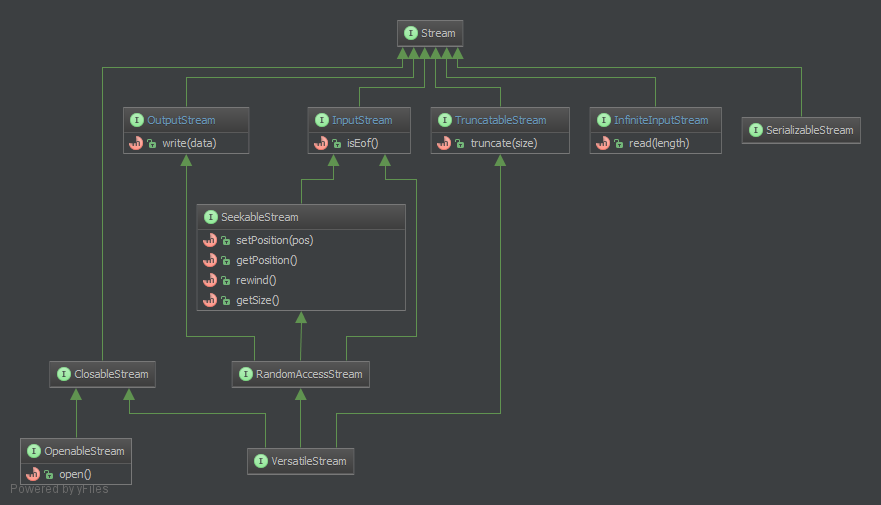
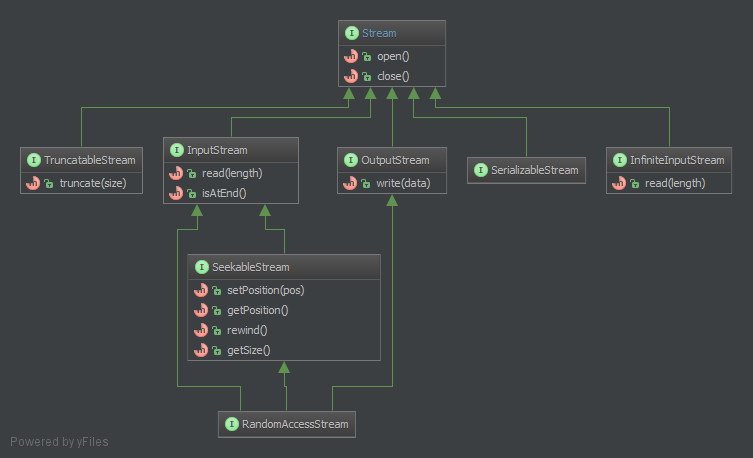
Structural changes

diff --git a/src/Kir/Streams/Stream.php b/src/Kir/Streams/Stream.php
@@ -1,5 +1,6 @@
 <?php
 namespace Kir\Streams;
+use Kir\Streams\Exceptions\IOException;
 
 /**
  * Interface Stream
@@ -9,4 +10,15 @@ namespace Kir\Streams;
  * @abstract
  */
 interface Stream {
+	/**
+	 * @throws IOException
+	 * @return $this
+	 */
+	public function connect();
+
+	/**
+	 * @throws IOException
+	 * @return $this
+	 */
+	public function disconnect();
 }

diff --git a/README.md b/README.md
@@ -29,7 +29,7 @@ Every stream implementation should only be forced to implement essential functio
 
 Every IoC-aware component should only depend on interfaces, which provide the required functionality.
 
-A logger for example only need to depend on a OutputStream. The logger do not need to open or close the stream, nor does it need to know about the stream-size or the current cursor-position. A logger should not be aware of log-file-rotation or disk-space-monitoring. This should be a concern of an outer component. So the logger could write to any writable stream without having a clue, what kind of stream this actually is.
+A logger for example only need to depend on a OutputStream. The logger do not need to know about the stream-size or the current cursor-position. A logger should not be aware of log-file-rotation or disk-space-monitoring. This should be a concern of an outer component. So the logger could write to any writable stream without having a clue, what kind of stream this actually is.
 
 
 Charsets and data-types
@@ -48,7 +48,7 @@ Overview
 
 ### Stream
 
-`Stream` is the base-class for a number of other classes. Its main purpose is to give a base type for type-hinting:
+`Stream` is the base-class for a number of other classes. Its main purpose is to provide functionality to connect or disconnect to a stream and give a base type for type-hinting:
 
 ```PHP
 function handleStream(Stream $stream) {
@@ -62,17 +62,10 @@ function handleStream(Stream $stream) {
 }
 ```
 
-### ClosableStream
-
-![Inheritance](assets/diagram-closable.png)
-
-A `ClosableStream` is a stream which can be disconnecten from a resource. An IoC-aware component may not enforce this interface in case of closing a stream could lead to unexpected behaviour in the outer program.
-
-*If a component does not really need to close a stream, then dont use this interface or any descendant of it.*
-
 Method | Return-type | Possible exception(s)
 ------ | ----------- | ---------------------
-`close()` | `static` | IOException
+`connect()` | `static` | ResourceLockedException, IOException
+`disconnect()` | `static` | IOException
 
 
 ### InfiniteInputStream
@@ -125,15 +118,6 @@ Examples:
 * Networkstreams
 
 
-### OpenableStream
-
-A `Stream` which implements this interface ships the method `open()` which connects to a resource.
-
-Method | Return-type | Possible exception(s)
------- | ----------- | ---------------------
-`open()` | `static` | ResourceLockedException, IOException
-
-
 ### TruncatableStream
 
 TODO
@@ -155,9 +139,10 @@ Method | Return-type | Possible exception(s)
 
 ### RandomAccessStream
 
-The `VersatileStream` applies to fully accessible resources like local files. It extends `InputStream`, `OutputStream` and `SeekableStream`.
+The `VersatileStream` applies to fully accessible resources like local files. It extends `InputStream`, `OutputStream` and `SeekableStream`. This interface should likly be used for read-, writable- and seekable resources.
 
+Examples:
 
-### VersatileStream
-
-The `VersatileStream` applies to same kind of resource like `RandomAccessStream`. It extends `RandomAccessStream`, `TruncatableStream`, `ClosableStream` and `OpenableStream`.
+* Local files
+* Network files (ftp, sftp, etc)
+* I/O-Converters (plain-to-base64 and vice-versa, en- and decryption, etc)
